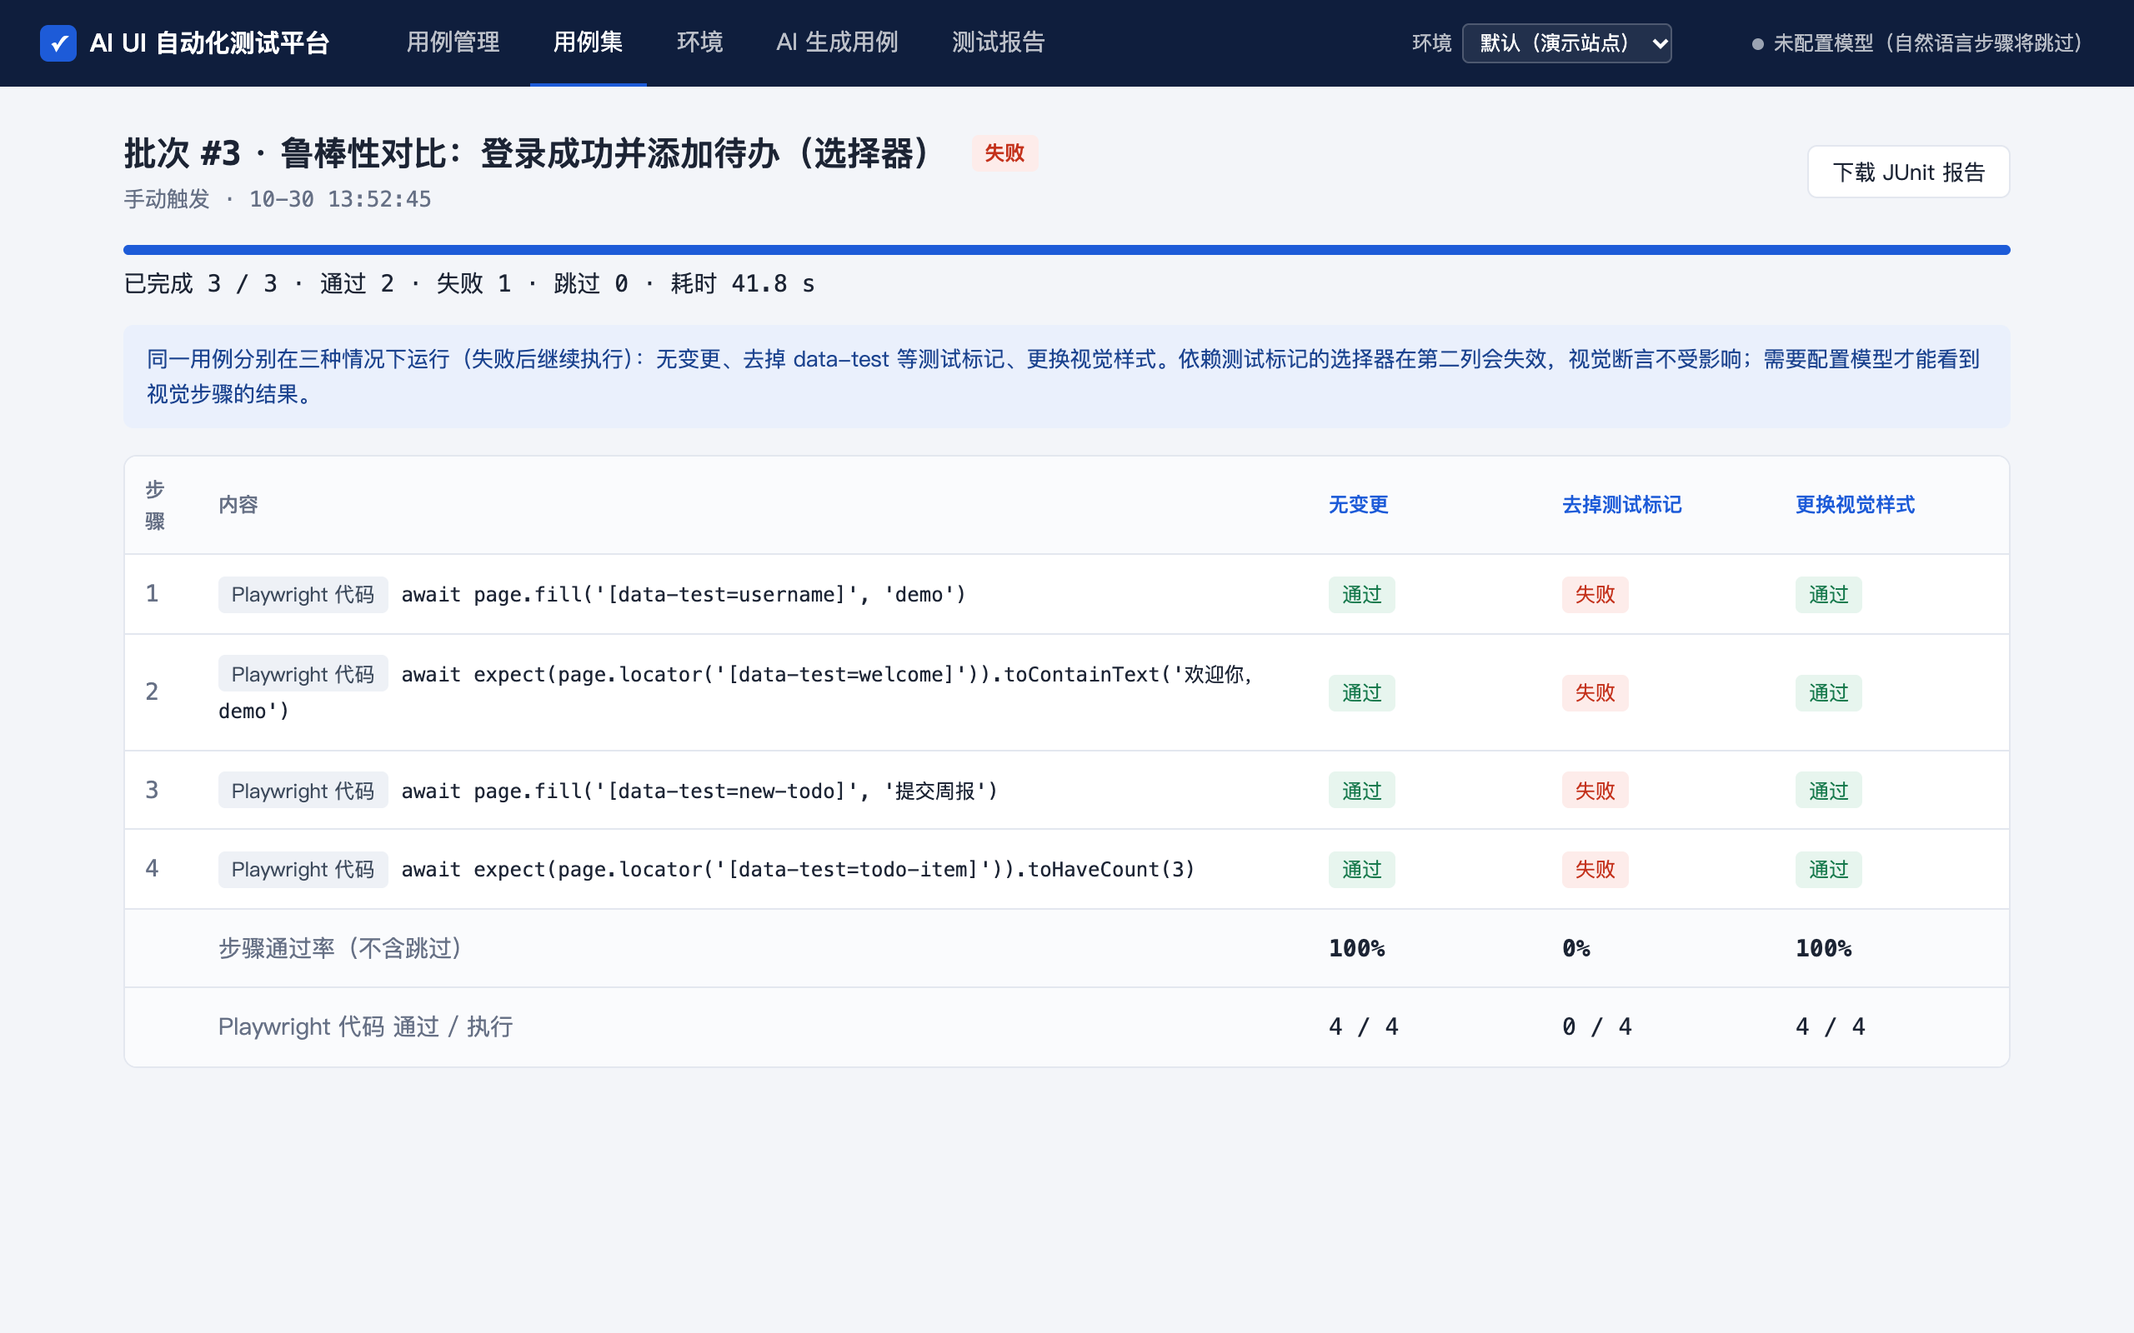
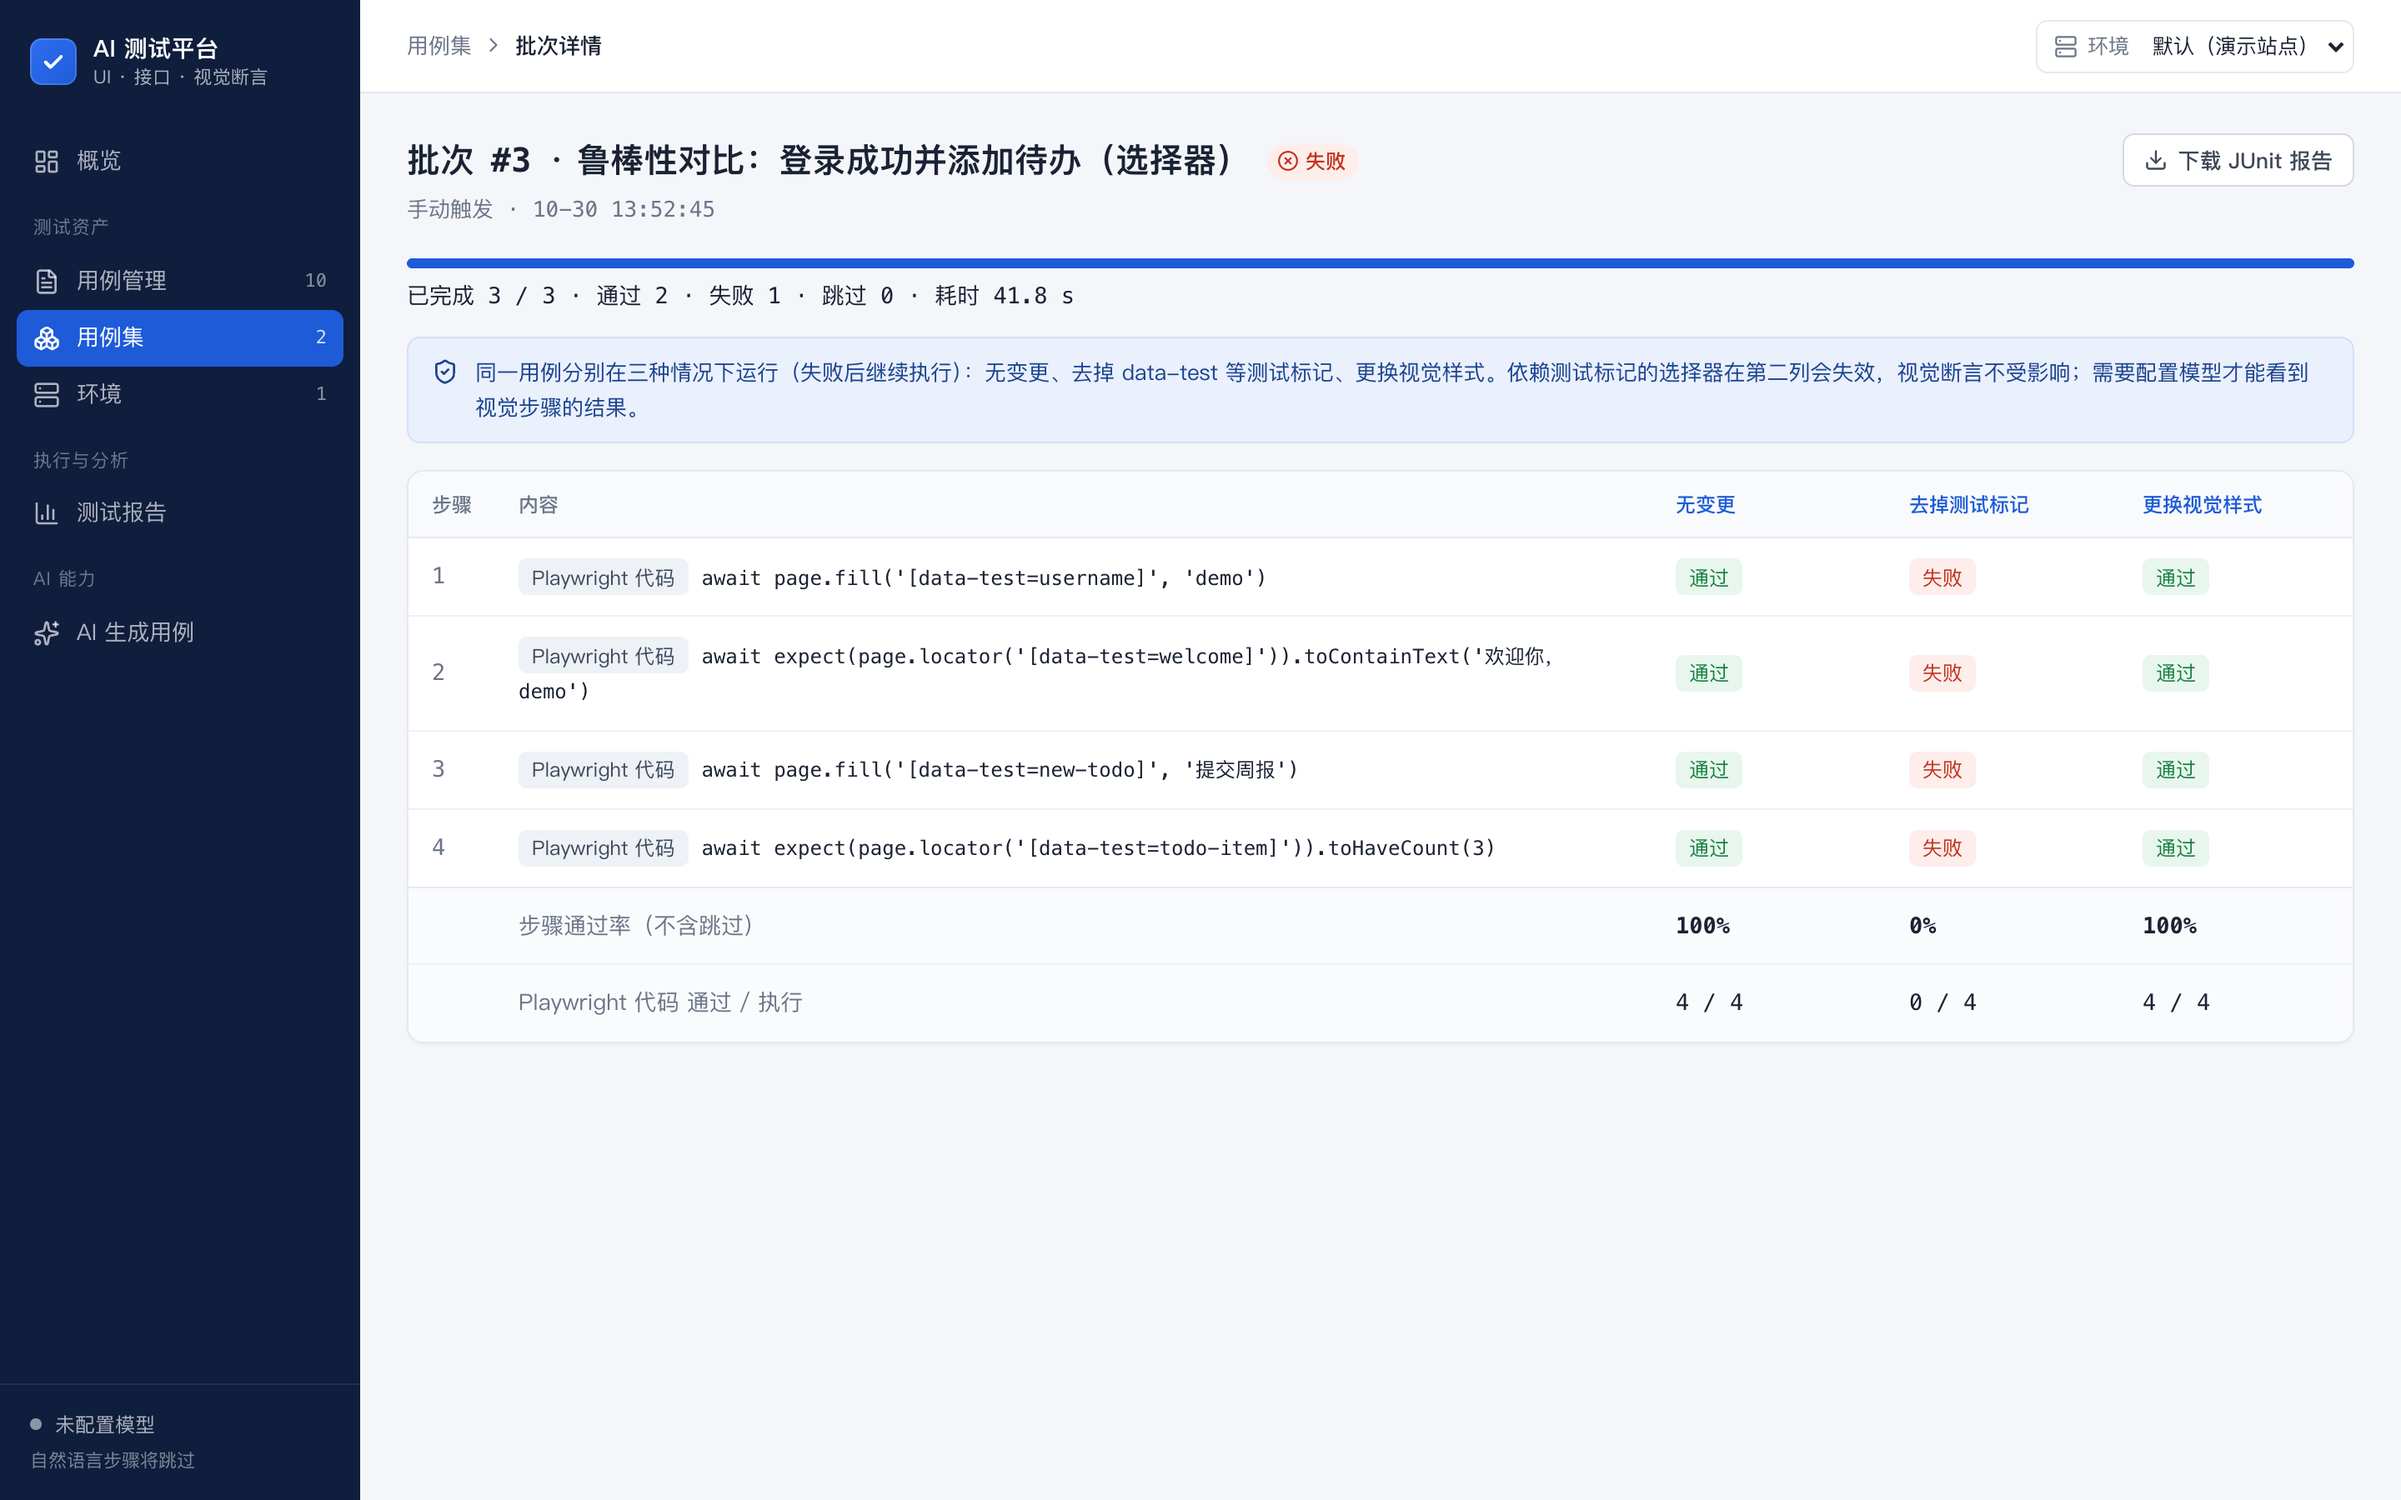
docs: 新界面截图，README 与面试讲稿更新（概览、不稳定用例、Trace Viewer 式运行详情）

diff --git a/scripts/screenshots.ts b/scripts/screenshots.ts
@@ -6,12 +6,14 @@ const mockBase = process.argv[3]
 const out = 'docs/screenshots'
 
 const browser = await chromium.launch({ channel: process.env.BROWSER_CHANNEL ?? 'chrome' })
-const page = await browser.newPage({ viewport: { width: 1280, height: 800 }, deviceScaleFactor: 2 })
+const page = await browser.newPage({ viewport: { width: 1440, height: 900 }, deviceScaleFactor: 2 })
 const shot = async (name: string, fullPage = false) => {
   await page.waitForTimeout(400)
   await page.screenshot({ path: `${out}/${name}.png`, fullPage })
 }
 
+await page.goto(`${base}/dashboard`)
+await shot('dashboard')
 await page.goto(`${base}/cases`)
 await shot('cases')
 await page.goto(`${base}/cases/2/edit`)
@@ -22,11 +24,11 @@ const failed = runs.find((r: any) => r.status === 'failed')
 const passed = runs.find((r: any) => r.status === 'passed' && r.skipped > 0) ?? runs.find((r: any) => r.status === 'passed')
 if (failed) {
   await page.goto(`${base}/runs/${failed.id}`)
-  await shot('run-failed', true)
+  await shot('run-failed')
 }
 if (passed) {
   await page.goto(`${base}/runs/${passed.id}`)
-  await shot('run-passed', true)
+  await shot('run-passed')
 }
 const apiRun = runs.find((r: any) => r.caseName.includes('（接口）') && r.status === 'passed')
 if (apiRun) {

diff --git a/docs/interview-notes.md b/docs/interview-notes.md
@@ -4,7 +4,7 @@
 
 ## 一、30 秒版本
 
-> 我做了一个测试平台，用例可以用三种方式写：Playwright 选择器代码、自然语言（交给 Midscene 视觉模型执行）、接口请求（YAML 描述），三种步骤可以混在同一个用例里。平台负责异步执行、逐步截图、统计模型的 token 消耗；支持多环境、用例集、JUnit 和 CI，也能把用例导出成独立的 Playwright 脚本。比较有特色的是把我毕设里“选择器 vs 视觉断言”的对比实验做成了功能：一键在去掉测试标记、换样式的情况下重跑用例，对比哪些步骤失效，选择器失效时还可以由 AI 兜底自愈。我还用它测了自己的毕设系统。平台自己有三层测试：131 条单元 / 集成测试、77 条 Python 接口自动化、15 条 Playwright E2E。
+> 我做了一个测试平台，用例可以用三种方式写：Playwright 选择器代码、自然语言（交给 Midscene 视觉模型执行）、接口请求（YAML 描述），三种步骤可以混在同一个用例里。平台负责异步执行、逐步截图、统计模型的 token 消耗；支持多环境、用例集、JUnit 和 CI，也能把用例导出成独立的 Playwright 脚本。比较有特色的是把我毕设里“选择器 vs 视觉断言”的对比实验做成了功能：一键在去掉测试标记、换样式的情况下重跑用例，对比哪些步骤失效，选择器失效时还可以由 AI 兜底自愈。我还用它测了自己的毕设系统。平台自己有三层测试：138 条单元 / 集成测试、77 条 Python 接口自动化、15 条 Playwright E2E。
 
 ## 二、架构（画在白板上）
 
@@ -61,7 +61,7 @@ Midscene Agent 的 `metrics` 是累计值，执行器在每一步前后各取一
 `scripts/ci-run.ts` 触发用例集、轮询到结束，打印汇总并写出 JUnit XML，有失败时以退出码 1 结束让流水线变红。GitHub Actions 依次跑类型检查、单元测试、E2E、pytest，最后启动平台执行“冒烟”用例集，并上传所有报告。
 
 **6. 平台本身是怎么测的？（测试金字塔）**
-底层 131 条 vitest（纯逻辑 + 真实 Fastify / SQLite / Chrome 的集成测试，用假 Agent 代替模型），中间 77 条 pytest 接口测试，顶层 15 条 Playwright E2E（含一个本地假模型验证 AI 生成流程）。越往上越慢、越少。
+底层 138 条 vitest（纯逻辑 + 真实 Fastify / SQLite / Chrome 的集成测试，用假 Agent 代替模型），中间 77 条 pytest 接口测试，顶层 15 条 Playwright E2E（含一个本地假模型验证 AI 生成流程）。越往上越慢、越少。
 
 **7. 代码步骤直接在服务端执行，安全吗？**
 不安全，这是有意识的取舍：只适合内网的可信用户。要对外开放，需要把执行器放进独立的容器或 worker 中隔离，并限制网络和文件系统访问。README 里写明了这一点。
@@ -91,10 +91,13 @@ Midscene Agent 的 `metrics` 是累计值，执行器在每一步前后各取一
 **13. 导出脚本有什么用？**
 平台适合探索和管理，长期稳定的用例更适合进代码仓库跟着 CI 跑。导出时，接口步骤翻译成 Playwright 的 `request` 加 `expect`，环境配置转成 `test.use`。导出时踩过一个坑：先整体转义再替换占位符，会把 `{{$timestamp}}` 里的 `$` 也转义掉，导致注册的用户名变成固定字符串。后来改成只转义字面量部分，并在集成测试里真实运行导出的文件来防止回归。
 
+**14. 不稳定用例怎么识别？界面为什么这样设计？**
+参考 Allure TestOps：取每个用例最近 10 次有结论的运行（排除跳过和变更注入），统计“通过 ↔ 失败”的切换次数。个人项目运行次数少，阈值取 2（Allure 默认是 3）。只看失败率分辨不出“一直失败”和“时好时坏”，前者通常是真缺陷，后者才是不稳定，所以要看切换次数。运行详情参考 Playwright Trace Viewer：左边是步骤时间线，右边是选中步骤的详情，打开时自动定位到失败的那一步，排查时不用在长页面里滚动查找。
+
 ## 五、简历写法参考（数字均来自仓库）
 
 - **平台搭建**：基于 Node + TypeScript（Fastify）+ Vue 3 + SQLite 从 0 实现用例管理、异步执行、测试报告、AI 生成用例；步骤支持自然语言（Midscene）、Playwright 代码与接口请求混写。
 - **接口测试与 CI**：接口步骤用 YAML 描述请求、断言和变量提取（接口关联），纯接口用例不启动浏览器；支持用例集批量运行、导出 JUnit，CI 脚本在有失败时以非 0 退出，并接入 GitHub Actions。
 - **鲁棒性与自愈**：把毕设中“选择器 vs 视觉断言”的对比实验产品化：注入“去掉测试标记 / 更换视觉样式”的界面变更，一键对比每一步的存活率；选择器失效时可由视觉模型兜底（自愈）并提示更新。
 - **实战**：用平台测试毕设监考系统：多环境配置（模拟摄像头、权限、预置登录态），8 步接口业务链路（教师 / 考生双角色，token 关联）、越权与边界校验，以及摄像头场景的 UI 用例。
-- **质量保障**：搭建 pytest + requests 接口自动化框架（JSON Schema 契约、YAML 数据驱动、夹具自动造数和清理），77 条接口用例；另有 131 条单元 / 集成测试和 15 条 Playwright E2E。
+- **质量保障**：搭建 pytest + requests 接口自动化框架（JSON Schema 契约、YAML 数据驱动、夹具自动造数和清理），77 条接口用例；另有 138 条单元 / 集成测试和 15 条 Playwright E2E。

diff --git a/README.md b/README.md
@@ -6,16 +6,17 @@
 
 > 定位：帮团队从“手工点页面”过渡到自动化，让不熟悉代码的测试同学先用自然语言写用例，稳定之后再沉淀成选择器脚本。
 
-![用例管理](docs/screenshots/cases.png)
+![概览](docs/screenshots/dashboard.png)
 
 ## 功能
 
 | 模块 | 说明 |
 |---|---|
-| 用例管理 | 新建 / 编辑 / 删除用例；一个用例 = 目标 URL + 步骤列表；步骤有五种：AI 操作（`aiAct`）、AI 断言（`aiAssert`）、AI 提取（`aiQuery`）、Playwright 代码片段、接口请求；数据存在 SQLite |
+| 概览 | 近 7 天运行数、通过率（与上周对比）、平均耗时与模型 token；最近失败的用例；**不稳定用例识别**（参考 Allure TestOps：最近 10 次运行中通过 / 失败切换 ≥ 2 次）；用例的步骤构成 |
+| 用例管理 | 搜索与筛选（步骤类型、最近结果）；新建 / 编辑 / 删除用例，代码与 YAML 步骤带语法高亮，步骤可拖拽排序，⌘S 保存，“保存并运行”；一个用例 = 目标 URL + 步骤列表；步骤有五种：AI 操作（`aiAct`）、AI 断言（`aiAssert`）、AI 提取（`aiQuery`）、Playwright 代码片段、接口请求；数据存在 SQLite |
 | 接口测试 | 接口步骤用 YAML 描述 `method / url / headers / json`，断言状态码、响应耗时、响应头和 JSON 字段（`eq / exists / contains / len / gt / lt / type`），用 `extract` 提取变量供后续步骤引用（接口关联）。纯接口用例不启动浏览器，报告展示请求与响应（鉴权头脱敏） |
 | 一键执行 | 后端用 Playwright 驱动 Chrome 执行；运行进入串行队列异步执行，前端每 0.8 秒轮询一次，实时看到每一步的状态。未配置模型时自然语言步骤标记为“跳过（未配置模型）”，代码步骤照常执行 |
-| 测试报告 | 每一步都记录状态、耗时、截图（失败步骤大图展示）、模型调用次数和 token；报告页有运行通过率、平均耗时、每日通过率趋势、最近 30 次耗时柱状图和历史运行列表，可按用例和时间范围筛选 |
+| 测试报告 | 运行详情参考 Playwright Trace Viewer：左侧步骤时间线（状态与耗时条），右侧为选中步骤的代码、错误、请求 / 响应和截图，自动定位到失败步骤，↑ ↓ 切换；每一步都记录状态、耗时、截图、模型调用次数和 token；报告页有运行通过率、平均耗时、每日通过率趋势、最近 30 次耗时柱状图和历史运行列表，可按用例和时间范围筛选 |
 | 环境 | 每个环境配置基础地址、变量、Chromium 启动参数（如模拟摄像头）、权限、预置 localStorage、单步超时；顶栏切换当前环境，用例集可设默认环境，CI 脚本支持 `--env`。用例 URL 写成 `{{BASE_URL}}/login`，换环境不用改用例；运行时保存环境快照，历史报告可追溯 |
 | 鲁棒性对比 | 变更注入：在测试浏览器里去掉 `data-test` 等测试标记，或换一套视觉样式（不改被测系统）。一键让同一用例在“无变更 / 去掉测试标记 / 更换视觉样式”下各跑一次（失败后继续执行），矩阵对比每一步、每种写法的存活率 |
 | AI 兜底（自愈） | 代码步骤可附一句自然语言描述：选择器失效导致失败时，改由视觉模型按描述执行；通过则标记“已自愈”，并提示更新选择器 |
@@ -44,7 +45,7 @@ npm run dev
 ## 测试
 
 ```bash
-npm test            # vitest：131 条单元 / 集成测试
+npm test            # vitest：138 条单元 / 集成测试
 ```
 
 ```bash
@@ -115,10 +116,10 @@ server/
   demo-api.ts         演示站点后端（登录鉴权 + 待办增删改查）
   runner/ai.ts        Midscene Agent 工厂（可替换，便于测试）
   ai/generate.ts      需求 → 用例草稿（提示词、调用、解析）
-  repo/               SQLite 读写与统计
+  repo/               SQLite 读写、统计与概览（不稳定用例识别）
   demo-site/          演示被测站点
 shared/types.ts     前后端共用的类型
-web/src/            Vue 页面与组件（含手写的 SVG 趋势图）
+web/src/            Vue 页面与组件（含手写的 SVG 趋势图、CodeMirror 编辑器、提示与确认弹窗）
 tests/unit/         vitest
 e2e/                平台自身的 Playwright E2E 与假模型
 api-tests/          Python 接口自动化（pytest + requests）
@@ -129,13 +130,17 @@ examples/proctor/   实战：测试毕设“在线考试智能监考系统”
 
 ## 截图
 
-| 运行失败：错误信息 + 失败截图 | 运行通过：AI 步骤因未配置模型被跳过 |
+| 用例管理：搜索、筛选、批量运行 | 用例编辑：代码 / YAML 高亮、拖拽排序、AI 兜底 |
+|---|---|
+| ![](docs/screenshots/cases.png) | ![](docs/screenshots/case-edit.png) |
+
+| 运行失败：步骤时间线 + 错误与截图 | 运行通过：AI 步骤因未配置模型被跳过 |
 |---|---|
 | ![](docs/screenshots/run-failed.png) | ![](docs/screenshots/run-passed.png) |
 
-| 测试报告 | 用例编辑 |
+| 测试报告 | 环境列表 |
 |---|---|
-| ![](docs/screenshots/reports.png) | ![](docs/screenshots/case-edit.png) |
+| ![](docs/screenshots/reports.png) | ![](docs/screenshots/environments.png) |
 
 | 鲁棒性对比：去掉测试标记后选择器全部失效 | 环境配置（毕设：模拟摄像头、权限、预置协议标记） |
 |---|---|
